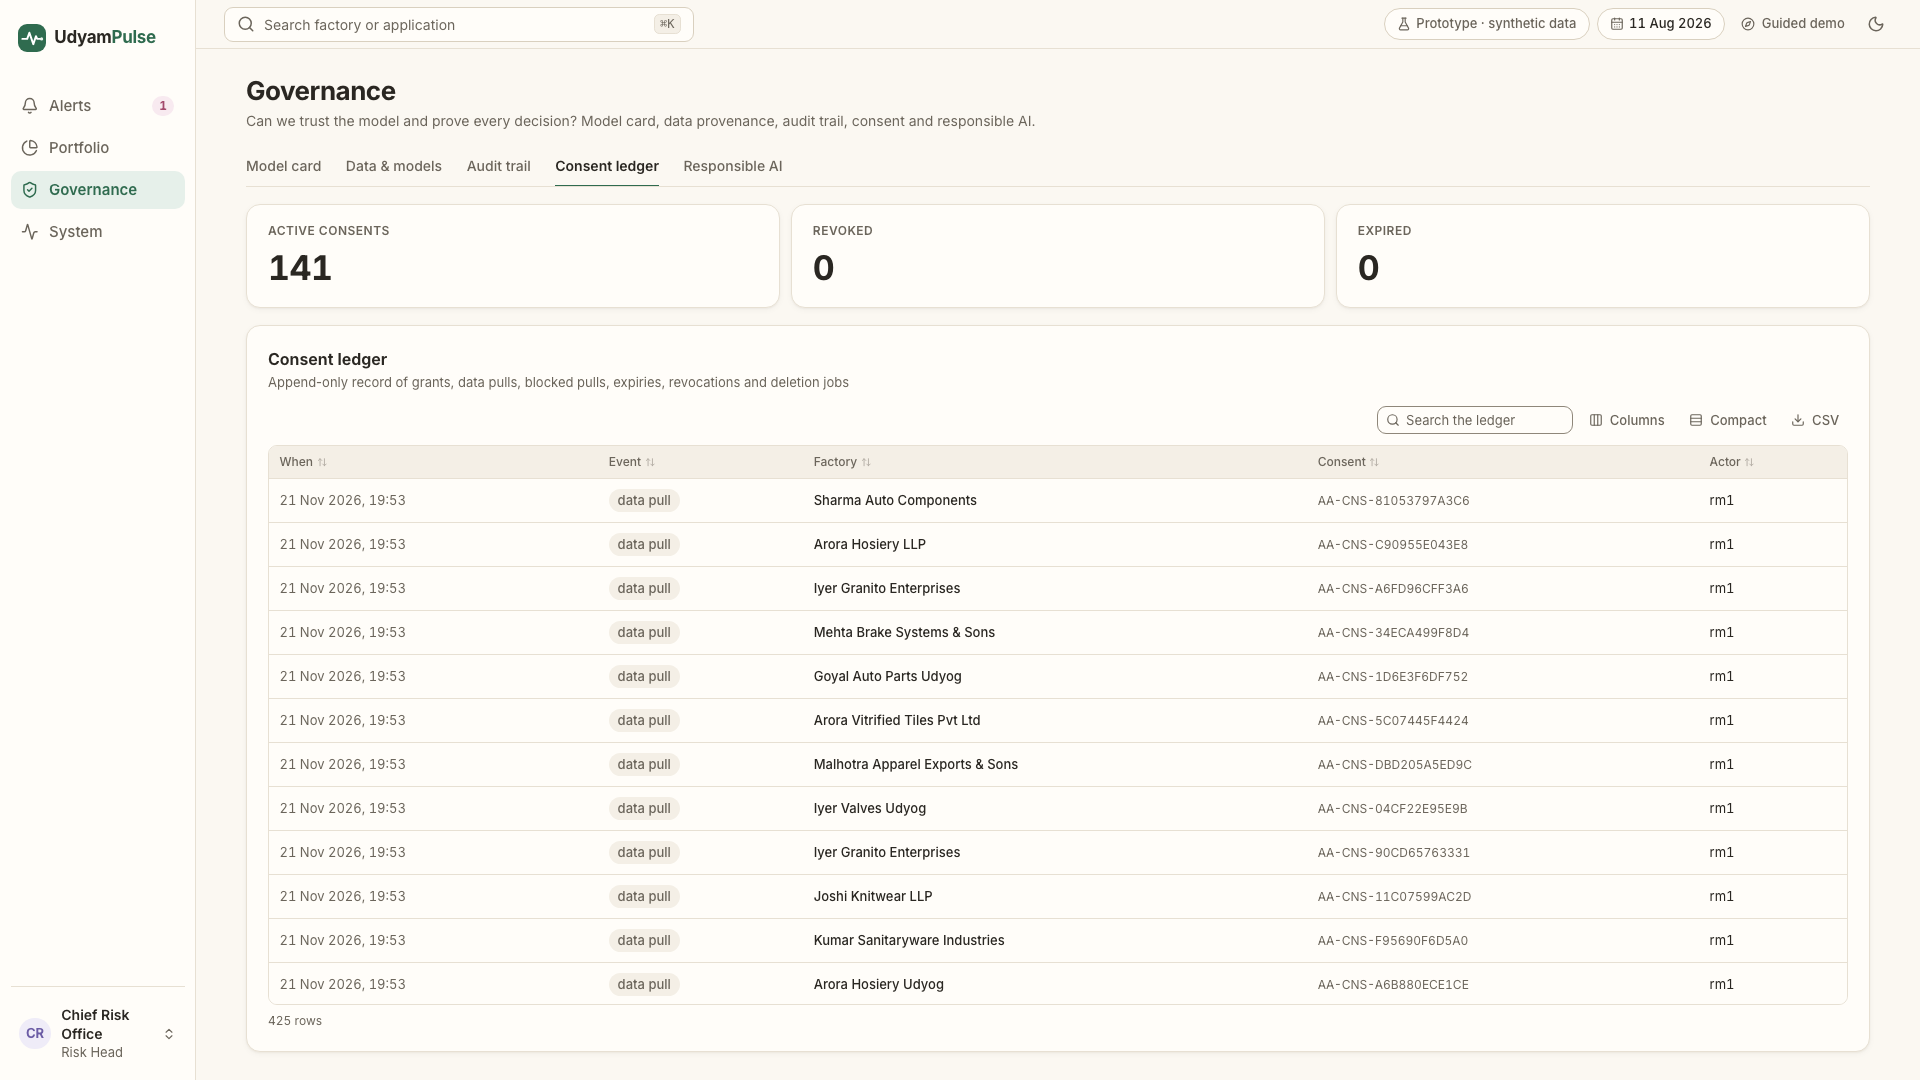
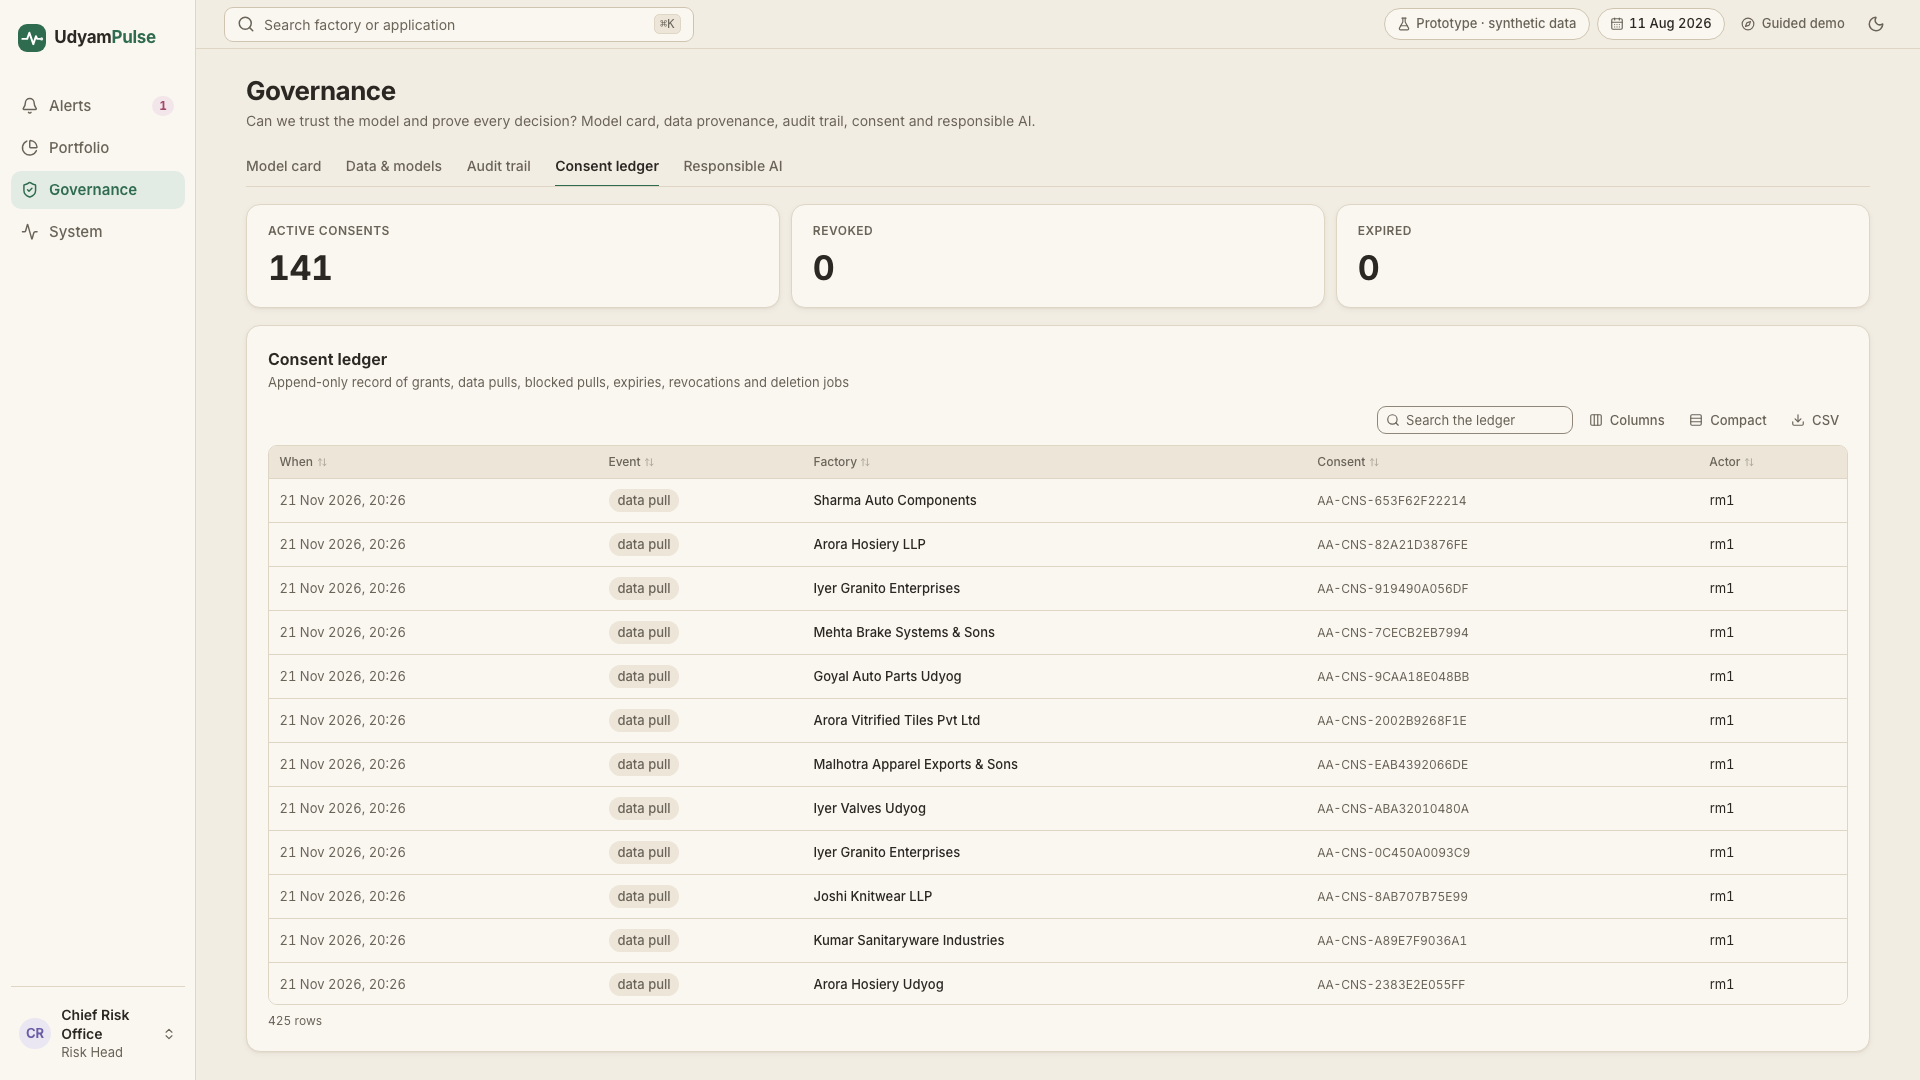
feat(web): dusty cream theme
New light palette (page, card, fill, borders, text, forest/blue/pink/ochre/brick with tints) and a slightly stronger card shadow. Subtle text, pink and ochre are darkened a touch so every text/background pair passes WCAG 2.2 AA (npm run check:contrast, 52 pairs x 2 themes). Dark mode uses the same hues: bg #17150F, surface #1F1C16, accents lightened about 25%, tints mixed into the surface. Browser theme colours updated and slides retaken.

diff --git a/web/src/styles/tokens.css b/web/src/styles/tokens.css
@@ -1,76 +1,77 @@
-/* Design tokens: the "cream" palette. Hex values only, one per line: scripts/check-contrast.ts parses this file.
+/* Design tokens: the "dusty cream" palette. Hex values only, one per line: scripts/check-contrast.ts parses this file.
  * Meaning is fixed: forest = primary / good / Approve · blue = info and policy citations · purple = AI agents and
  * the current step · pink = change markers only · ochre = Watch / to improve · brick = High risk / worse / delete.
- * Text colours on tints are darkened where needed to pass WCAG 2.2 AA (pink, ochre).
+ * Text colours are darkened slightly where needed to pass WCAG 2.2 AA (subtle, pink, ochre). Dark mode uses the same
+ * hues with accents lightened about 25% and tints mixed 16% into the surface.
  * Charts: chart-1..4 are the categorical series (blue, ochre, purple, green; validated for colour-vision
  * separation in this order, light and dark); chart-5/6 are neutral greys for "other" and baselines. Pink is
  * never a series colour: it marks change. */
 :root {
   color-scheme: light;
-  --bg: #fbf8f2;
-  --surface: #fffdf9;
-  --surface-2: #f4efe6;
-  --border: #e7e0d3;
-  --border-2: #d9d0bf;
+  --bg: #f2ede3;
+  --surface: #faf7f1;
+  --surface-2: #ece5d8;
+  --border: #ded5c5;
+  --border-2: #cfc4b0;
   --border-strong: #8f877a;
-  --text: #2a2722;
-  --text-muted: #6b655b;
-  --text-subtle: #8a8275;
+  --text: #2b2722;
+  --text-muted: #6a6358;
+  --text-subtle: #8b8275;
   --primary: #2f6b4f;
   --primary-hover: #275a42;
-  --primary-tint: #e6f0ea;
-  --on-primary: #fffdf9;
-  --brand: #a44a6d;
-  --brand-tint: #f8eaf0;
+  --primary-tint: #e3ece4;
+  --on-primary: #faf7f1;
+  --brand: #a04a6c;
+  --brand-tint: #f3e6ea;
   --purple: #6b5ca5;
-  --purple-tint: #efecf8;
+  --purple-tint: #ebe7f2;
   --success: #2f6b4f;
-  --success-tint: #e6f0ea;
-  --warning: #8a5c1e;
-  --warning-tint: #f7eedc;
+  --success-tint: #e3ece4;
+  --warning: #895e1f;
+  --warning-tint: #f2e9d6;
   --danger: #a8473f;
-  --danger-tint: #f6e6e3;
+  --danger-tint: #f2e3df;
   --info: #3e5c9a;
-  --info-tint: #e8edf7;
-  --toast: #2a2722;
-  --on-toast: #fffdf9;
+  --info-tint: #e5e9f1;
+  --toast: #2b2722;
+  --on-toast: #faf7f1;
   --chart-1: #3e5c9a;
   --chart-2: #a9742a;
   --chart-3: #6b5ca5;
   --chart-4: #3c8a5e;
   --chart-5: #7d7568;
-  --chart-6: #6b655b;
+  --chart-6: #6a6358;
 }
 
 [data-theme="dark"] {
   color-scheme: dark;
-  --bg: #16140f;
-  --surface: #1e1b16;
-  --surface-2: #27231c;
-  --border: #332e26;
-  --border-2: #423b31;
+  --bg: #17150f;
+  --surface: #1f1c16;
+  --surface-2: #28241d;
+  --border: #342f27;
+  --border-2: #433c32;
   --border-strong: #7d7568;
   --text: #ede7dc;
   --text-muted: #b3aa9c;
   --text-subtle: #8c8477;
-  --primary: #6fb08f;
-  --primary-hover: #86c2a3;
-  --primary-tint: #1d2a22;
-  --on-primary: #16140f;
-  --brand: #e08aab;
-  --brand-tint: #33202a;
-  --purple: #aea2de;
-  --purple-tint: #25213a;
-  --success: #6fb08f;
-  --success-tint: #1d2a22;
-  --warning: #d9a75e;
-  --warning-tint: #2d2414;
-  --danger: #e58f86;
-  --danger-tint: #33201d;
-  --info: #8fa8da;
-  --info-tint: #1e2533;
+  --primary: #60b990;
+  --primary-hover: #7cc5a4;
+  --primary-tint: #29352a;
+  --on-primary: #17150f;
+  --brand: #d3a0b3;
+  --brand-tint: #3c312f;
+  --purple: #b6aed2;
+  --purple-tint: #373334;
+  --success: #60b990;
+  --success-tint: #29352a;
+  --warning: #daa354;
+  --warning-tint: #3d3220;
+  --danger: #d69691;
+  --danger-tint: #3c302a;
+  --info: #889fcf;
+  --info-tint: #303134;
   --toast: #ede7dc;
-  --on-toast: #16140f;
+  --on-toast: #17150f;
   --chart-1: #6f92da;
   --chart-2: #b9822f;
   --chart-3: #8e7bd3;

diff --git a/web/index.html b/web/index.html
@@ -3,8 +3,8 @@
   <head>
     <meta charset="UTF-8" />
     <meta name="viewport" content="width=device-width, initial-scale=1.0" />
-    <meta name="theme-color" content="#FBF8F2" media="(prefers-color-scheme: light)" />
-    <meta name="theme-color" content="#16140F" media="(prefers-color-scheme: dark)" />
+    <meta name="theme-color" content="#F2EDE3" media="(prefers-color-scheme: light)" />
+    <meta name="theme-color" content="#17150F" media="(prefers-color-scheme: dark)" />
     <meta name="description" content="UdyamPulse: decision intelligence for MSME manufacturing credit." />
     <meta name="robots" content="noindex, nofollow" />
     <link rel="manifest" href="/manifest.webmanifest" />

diff --git a/web/src/index.css b/web/src/index.css
@@ -61,7 +61,7 @@
   --radius-card: 14px;
   --radius-control: 9px;
   /* Very soft, warm depth; no gradients, no heavy shadows. */
-  --shadow-card: 0 1px 2px rgba(60, 45, 20, 0.05), 0 2px 6px rgba(60, 45, 20, 0.04);
+  --shadow-card: 0 1px 2px rgba(60, 45, 20, 0.06), 0 2px 6px rgba(60, 45, 20, 0.05);
   --shadow-pop: 0 4px 8px rgba(60, 45, 20, 0.06), 0 12px 28px rgba(60, 45, 20, 0.1);
 }
 
